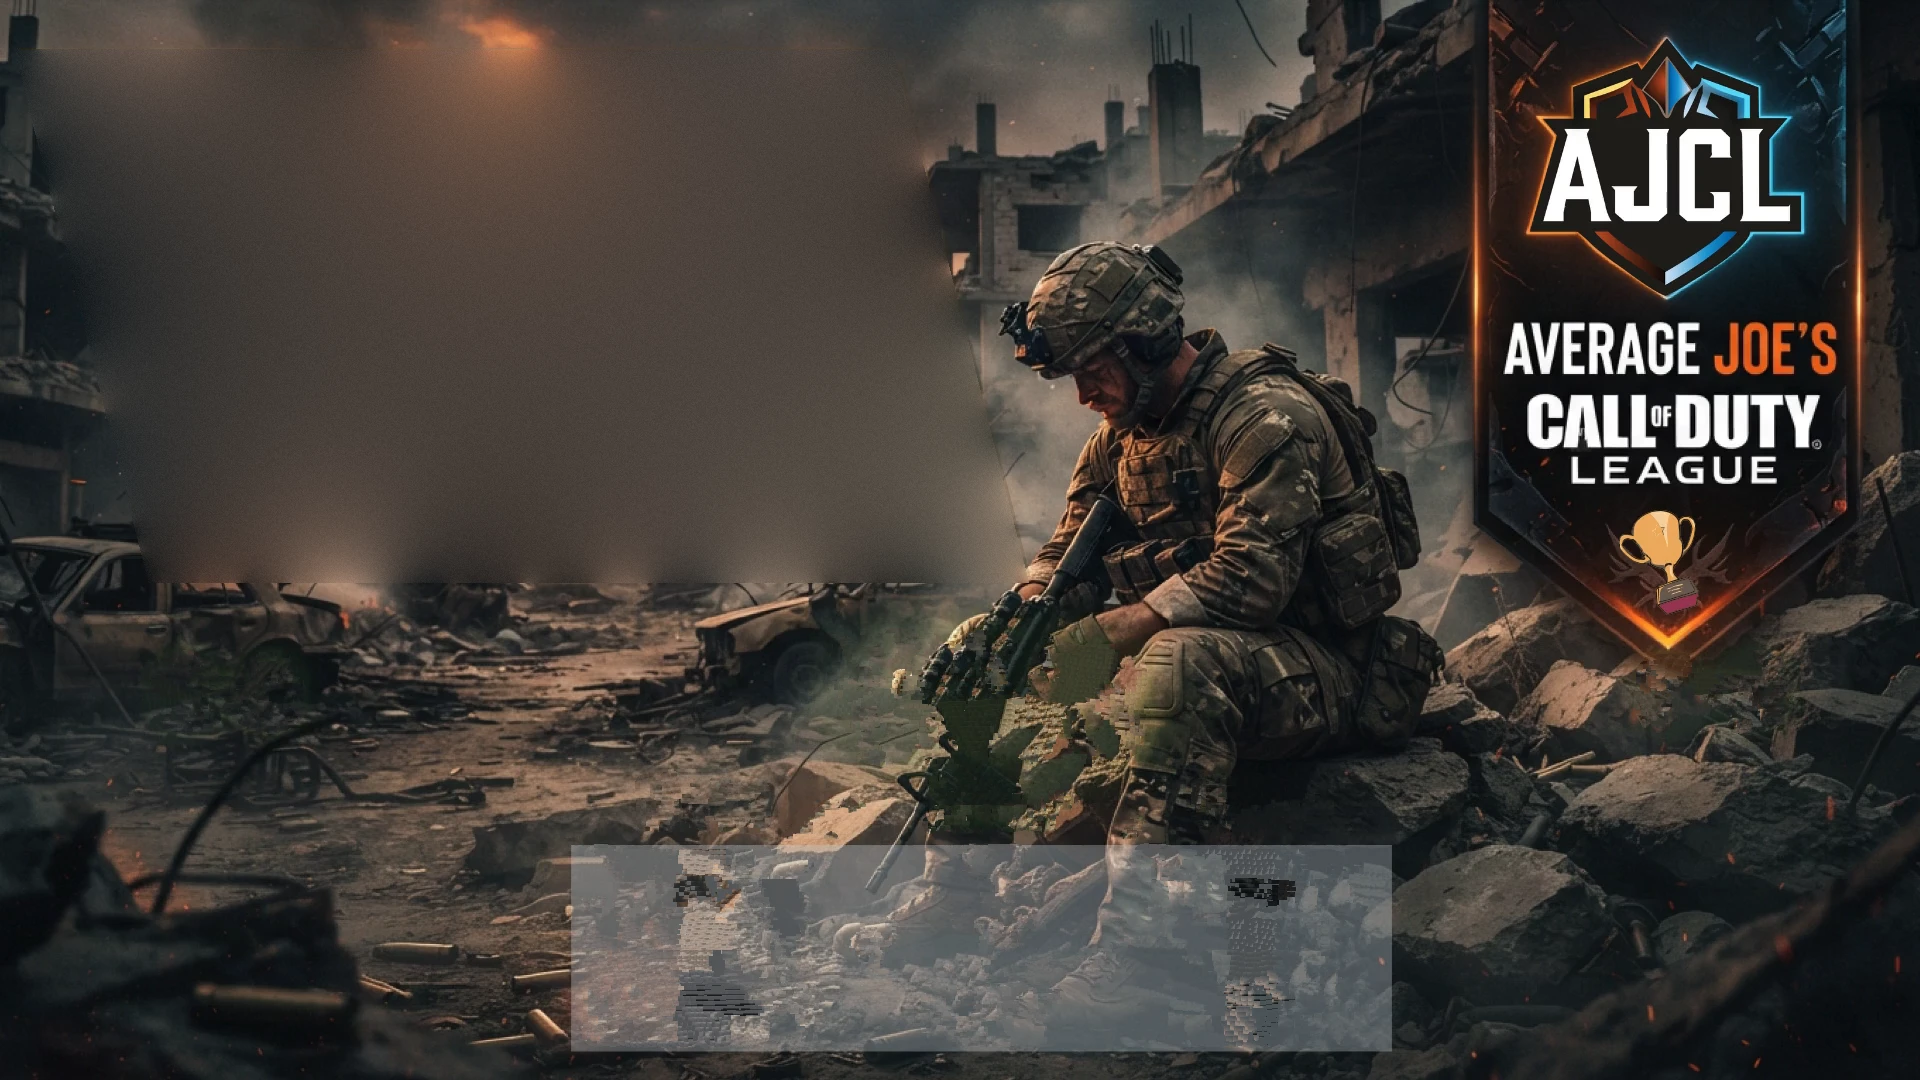
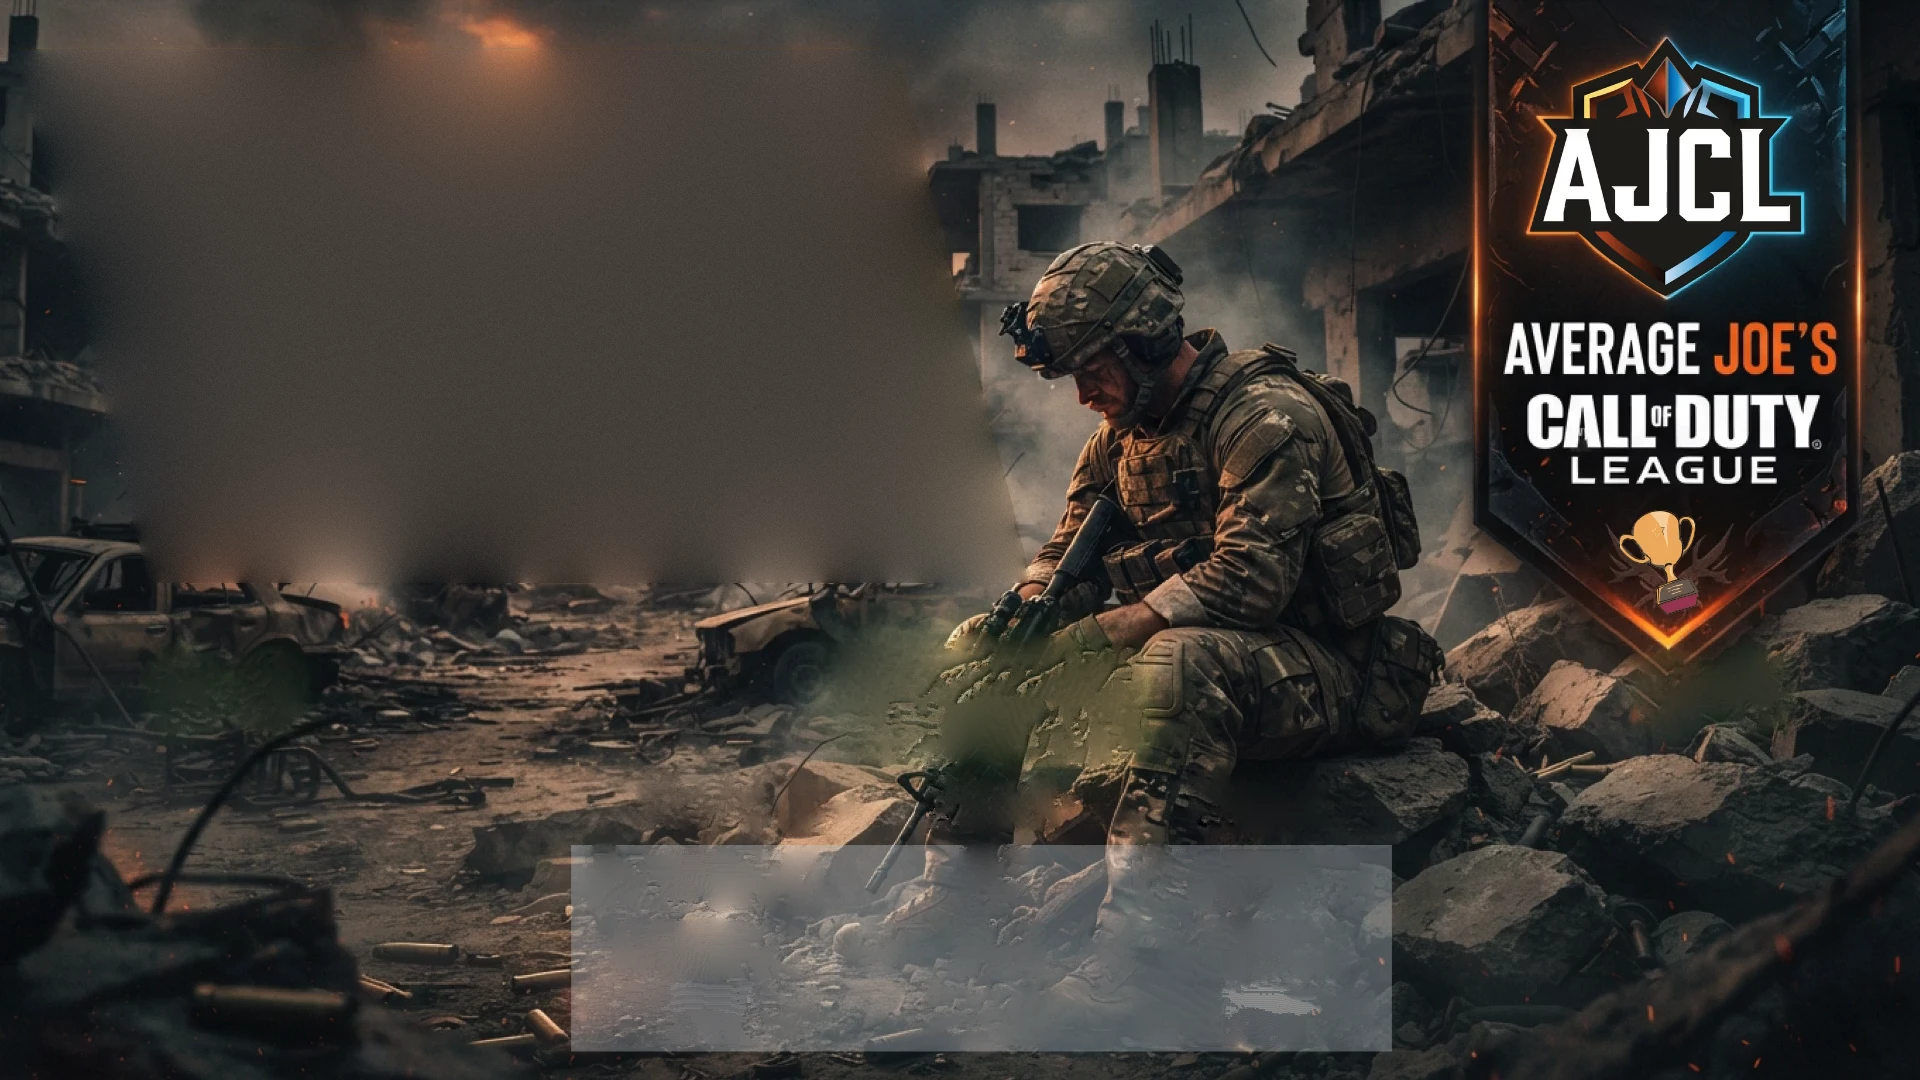
fix: mapset screen - centred map names, framed panels like the artwork, cleaner erase
- Map names centred on each panel's slanted middle and lined up from the top
- Frames: gold edge to dark wood, thin dark inner line, shadow at the bottom
- Sample text erased in two layers (smooth tone + copied texture) so the
  vetoes box and the area by the soldier have no blotches

diff --git a/src/render.js b/src/render.js
@@ -405,11 +405,20 @@ function mapsetPage(league, m, c) {
     const W = BR - TL, L = v => (v - TL).toFixed(1);
     const outer = `polygon(0px 0px, ${L(TR)}px 0px, ${L(BR)}px ${H}px, ${L(BL)}px ${H}px)`;
     const inner = `polygon(${L(ix)}px ${P.ft}px, ${L(ix + P.width)}px ${P.ft}px, ${L(ix + P.width + S * h)}px ${P.ft + h}px, ${L(ix + S * h)}px ${P.ft + h}px)`;
+    // Thin dark line just outside the picture (the frame's inner edge, like the artwork).
+    const LW = 3;
+    const line = `polygon(${L(ix - LW)}px ${P.ft - LW}px, ${L(ix + P.width + LW)}px ${P.ft - LW}px, ${L(ix + P.width + LW + S * (h + 2 * LW))}px ${P.ft + h + LW}px, ${L(ix - LW + S * (h + 2 * LW))}px ${P.ft + h + LW}px)`;
+    // Map name block: same top for every panel, centred on the picture's slanted
+    // middle at that height.
+    const labelTop = P.ft + h - 104, labelW = P.width - 22;
+    const labelMid = P.ft + h - 58 - P.ft;
+    const labelLeft = (ix - TL) + S * labelMid + (P.width - labelW) / 2;
     const mode = (a && a.mode) || defaultMode[i];
     return `<div class="ms-panel" data-i="${i}" style="left:${TL.toFixed(1)}px;top:${top}px;width:${W.toFixed(1)}px;height:${H}px">
       <div class="ms-frame" style="clip-path:${outer}"></div>
+      <div class="ms-line" style="clip-path:${line}"></div>
       <div class="ms-pic${a ? '' : ' is-empty'}" style="clip-path:${inner}${a ? `;--map-img:url('${mapImage(a.map)}')` : ''}"></div>
-      <div class="ms-label" style="left:${(ix - TL + S * h * 0.88).toFixed(0)}px;bottom:${P.fb + 14}px;width:${P.width - 20}px"><span>Map ${i + 1}</span><strong>${a ? esc(a.map) : 'TBD'}</strong><em>${esc(MODE_SHORT[mode])}</em></div>
+      <div class="ms-label" style="left:${labelLeft.toFixed(1)}px;top:${labelTop}px;width:${labelW}px"><span>Map ${i + 1}</span><strong>${a ? esc(a.map) : 'TBD'}</strong><em>${esc(MODE_SHORT[mode])}</em></div>
     </div>`;
   };
   const banOf = (team, mode) => {
@@ -455,12 +464,15 @@ function mapsetPage(league, m, c) {
   .ms-neon-glow { filter: blur(14px) saturate(1.6); mix-blend-mode: screen; opacity: 0; }
   /* Panels: gold-brown frame + map picture, same slant and size as the artwork's. */
   .ms-panel { position: absolute; opacity: 0; will-change: opacity, transform; }
-  .ms-frame { position: absolute; inset: 0; background: linear-gradient(170deg, #8a6b2e 0%, #5b4416 45%, #3e2e0f 100%); }
+  .ms-frame { position: absolute; inset: 0;
+    background: linear-gradient(to bottom, rgba(0,0,0,0) calc(100% - 18px), rgba(14,10,4,.94) calc(100% - 18px), rgba(14,10,4,.7) 100%),
+                linear-gradient(172deg, #d8b45a 0%, #a07c34 18%, #6e521e 52%, #463310 100%); }
+  .ms-line { position: absolute; inset: 0; background: #1b1307; }
   .ms-pic { position: absolute; inset: 0; background: linear-gradient(180deg, rgba(0,0,0,0) 55%, rgba(0,0,0,.85)), var(--map-img) center / cover no-repeat, #1b1c20; }
   .ms-pic.is-empty { background: linear-gradient(160deg, #2a2b30, #141518); }
-  .ms-label { position: absolute; display: grid; line-height: .95; text-shadow: 0 3px 8px rgba(0,0,0,.9); }
+  .ms-label { position: absolute; display: grid; justify-items: center; text-align: center; line-height: .95; text-shadow: 0 3px 8px rgba(0,0,0,.9); }
   .ms-label span { font-size: 22px; color: #ffcf5a; letter-spacing: .06em; }
-  .ms-label strong { font-size: 38px; color: #fff; white-space: nowrap; overflow: hidden; display: block; }
+  .ms-label strong { font-size: 38px; height: 40px; line-height: 40px; color: #fff; white-space: nowrap; overflow: hidden; display: block; max-width: 100%; }
   .ms-label em { font-style: normal; font-size: 24px; color: #a8f57f; }
   .ms-rec { position: absolute; top: 640px; width: 230px; text-align: center; font-size: 96px; line-height: 1; color: #b9f98f; text-shadow: 0 0 14px rgba(140,255,100,.55), 0 3px 8px rgba(0,0,0,.6); }
   .ms-rec-l { left: 114px; }
